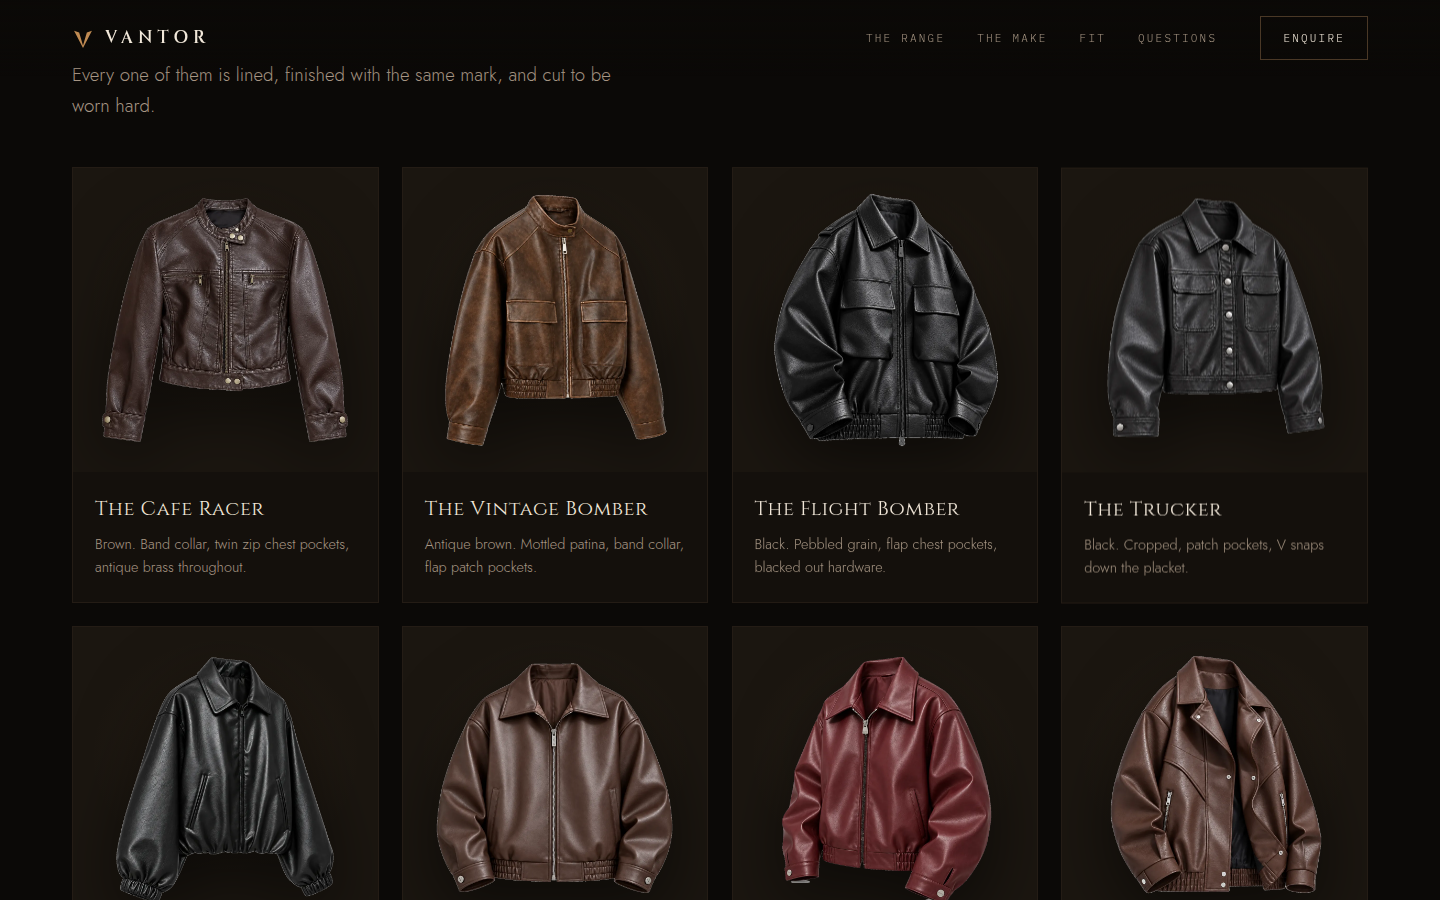
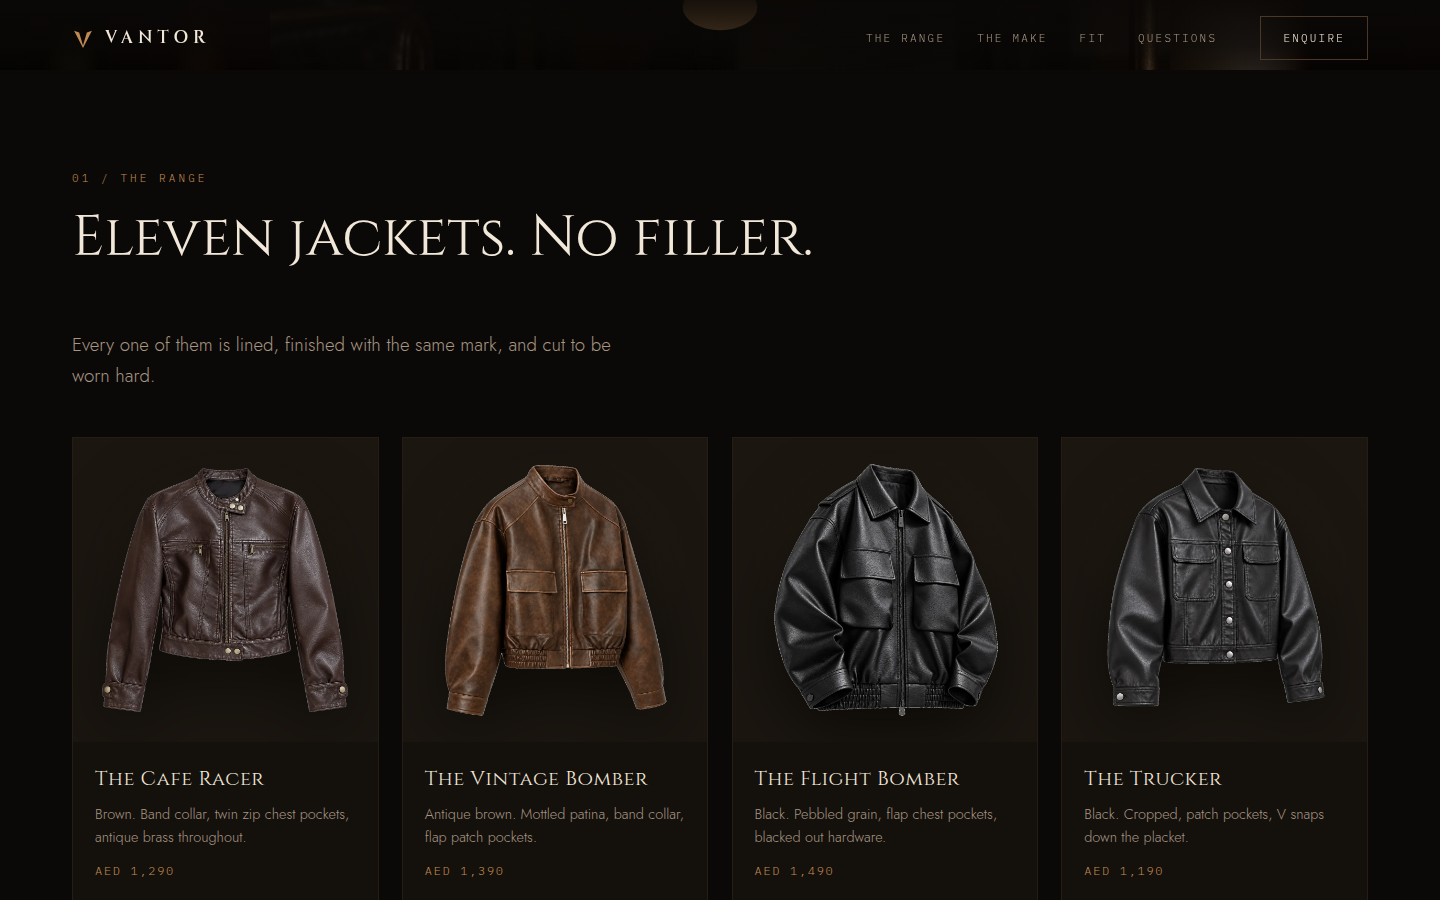
Price the range in AED as placeholders
Eleven placeholder prices, laddered by how much jacket each one is rather than
set flat: 1,190 for the two cropped simpler cuts, 1,290 for the mid bodies,
1,390 for the ones carrying more construction, and 1,490 for the flight bomber,
which is the heaviest and has the most hardware on it.

The band lands around USD 325 to 405, which is where the research put a well
made moto or bomber, so the page is arguing in the right bracket rather than
against a number pulled from nowhere.

One CURRENCY constant and one PRICES object at the top of the script control
all of it. An empty value hides that card's price rather than printing an empty
row, so a partially filled list still looks deliberate.

Claude-Session: https://claude.ai/code/session_01WyWRnk21ryLELjw3uFj7fK

diff --git a/site/index.html b/site/index.html
@@ -563,14 +563,24 @@ body.paused *,body.paused *::before,body.paused *::after{animation-play-state:pa
 "use strict";
 
 /* ============================================================
-   PRICES. Fill these in and they appear on every card.
-   Leave a value empty and that card simply shows no price.
-   Example: 'cafe-racer': '£340'
+   PRICES, in AED. These are PLACEHOLDERS, set by eye against what
+   comparable premium leather jackets sell for, so the page has real
+   numbers to argue around. Change any of them here and the card
+   updates. Empty means that card shows no price at all.
    ============================================================ */
+var CURRENCY = 'AED';
 var PRICES = {
-  'cafe-racer':'', 'vintage-bomber':'', 'flight-bomber':'', 'trucker':'',
-  'crop-bomber':'', 'bomber':'', 'bomber-oxblood':'', 'moto':'',
-  'moto-olive':'', 'cafe-racer-bone':'', 'field-bomber':''
+  'cafe-racer':'1,290',
+  'vintage-bomber':'1,390',
+  'flight-bomber':'1,490',
+  'trucker':'1,190',
+  'crop-bomber':'1,190',
+  'bomber':'1,290',
+  'bomber-oxblood':'1,290',
+  'moto':'1,390',
+  'moto-olive':'1,390',
+  'cafe-racer-bone':'1,290',
+  'field-bomber':'1,290'
 };
 
 var RANGE = [
@@ -608,7 +618,7 @@ var smoothstep = function(p,e0,e1){ var t=clamp((p-e0)/(e1-e0),0,1); return t*t*
 (function(){
   var grid = $('#rangegrid'), sel = $('#fjacket'), html = '', opts = '';
   RANGE.forEach(function(r,i){
-    var slug=r[0], name=r[1], desc=r[2], price=PRICES[slug]||'';
+    var slug=r[0], name=r[1], desc=r[2], price=PRICES[slug]?(CURRENCY+' '+PRICES[slug]):'';
     html += '<article class="card rise">'
          +    '<div class="shot"><img src="assets/products/'+slug+'.webp" alt="'+name+', '+desc.replace(/"/g,'')+'" '
          +      (i<3?'':'loading="lazy" ')+'width="1000" height="1000"></div>'

diff --git a/site/README.md b/site/README.md
@@ -19,8 +19,11 @@ Then open the localhost address it prints.
 
 ## Changing things
 
-**Prices.** Open `index.html` and find `var PRICES`. Fill in any of the eleven
-and the price appears on that card. Leave one empty and that card shows none.
+**Prices.** Open `index.html` and find `var PRICES`. The eleven prices there are
+placeholders in AED, set by eye against what comparable premium jackets sell for,
+so the page had real numbers to argue around. Change any of them and that card
+updates. Leave one empty and it shows no price. `CURRENCY` just above changes the
+prefix if you sell in something else.
 
 **Where the form goes.** Find `ACTION_EMAIL` and `ACTION_POST`, near the bottom.
 Set `ACTION_EMAIL` to an inbox and the send button opens the visitor's email app
